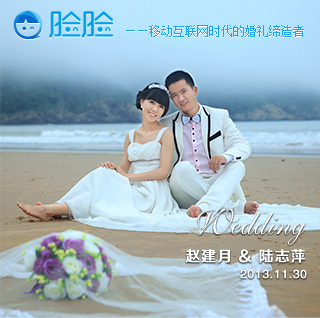
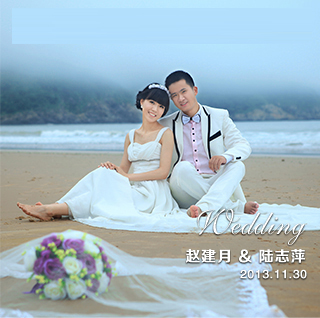
m

Changed region(s): [[0.0312, 0.0283, 0.375, 0.1415], [0.4062, 0.0566, 0.9688, 0.1415]]

diff --git a/public/w/ptfaz/marry.html b/public/w/ptfaz/marry.html
@@ -9,6 +9,12 @@
         <link rel="stylesheet" href="/w/ptfaz/css/mini.css" />
     </head>
     <body>
+		<div id="Box">
+			<h2 style="color:#08A92F;font-size:16px;">请打开原网页查看详情。</h2>
+			<h3><a href="https://itunes.apple.com/cn/app/lianlian/id577710538" title="免费下载iphone版本">免费下载iphone版本</a></h3>
+			<h3><a href="http://www.dface.cn/a/down" title="免费下载Android版本">免费下载Android版本</a></h3>
+			<br/>
+		</div>
         <div id="wrapper">
             <div class="container">
                 <center><a href="https://itunes.apple.com/cn/app/lianlian/id577710538" title="免费下载iphone版本"><img src="/images/btn3.png" width="147"/></a>
@@ -25,5 +31,8 @@
                 </div>
             </div>
         </div>
+	<script>
+		document.getElementById("Box").className="none";
+	</script>
     </body>
 </html>

diff --git a/public/w/ptfaz/css/mini.css b/public/w/ptfaz/css/mini.css
@@ -13,3 +13,5 @@ li{list-style:none;}
 
 .page{width:315px;margin:0px auto; padding:0px;line-height:30px;text-align:center;font-size:12px;color:#747472;line-height:22px;}
 .page p{display:block;margin:12px 0px 0px 0px;padding:0px;}
+
+.none{display:none;}
